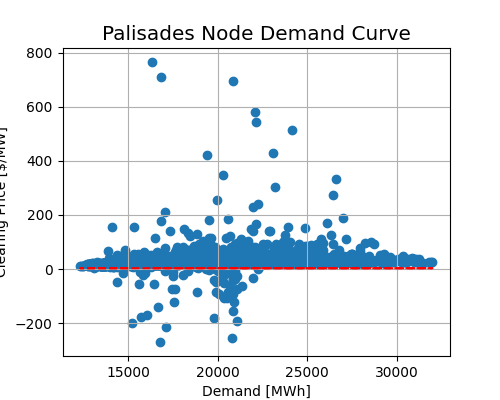
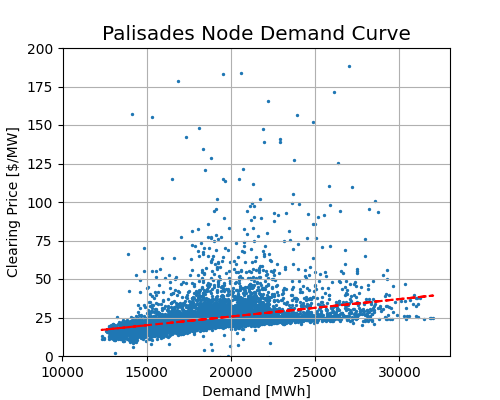
demand curves

diff --git a/analysis.py b/analysis.py
@@ -107,6 +107,7 @@ ax.set_ylim(0)
 plt.tight_layout()
 plt.savefig('node_clearing_duration_curve.png')
 '''
+'''
 lmp = np.genfromtxt('data/lmp/lmp.csv', delimiter=',')
 nodelmp = np.array([])
 for row in lmp[:-1]:
@@ -125,25 +126,47 @@ xs = demand[:,-1][mask]
 # calc the trendline
 z = np.polyfit(xs, no_outliers, 1)
 p = np.poly1d(z)
-plt.plot(xs,p(no_outliers),"r--")
+plt.plot(xs,p(xs),"r--")
 # the line equation:
+print('Mean:',mean)
+print('STD:',standard_deviation)
 print("y=%.6fx+(%.6f)"%(z[0],z[1]))
 print(nodelmp.shape)
-plt.scatter(demand[:,-1],nodelmp)
+plt.scatter(demand[:,-1],nodelmp,s=2)
+plt.ylim(0,200)
+#plt.hlines(mean,10000,33000,color='black')
+plt.xlim(10000,33000)
 plt.grid()
 plt.xlabel('Demand [MWh]')
 plt.ylabel('Clearing Price [$/MW]')
 plt.title('Palisades Node Demand Curve')
 plt.savefig('fitted-node-demand-curve.png')
-
 '''
-plt.scatter(demand[:,-1], timeseries)
+
+mean = np.mean(timeseries)
+standard_deviation = np.std(timeseries)
+distance_from_mean = abs(timeseries - mean)
+max_deviations = 2
+not_outlier = distance_from_mean < max_deviations * standard_deviation
+no_outliers = timeseries[not_outlier]
+mask = np.isin(timeseries, no_outliers)
+xs = demand[:,-1][mask]
+z = np.polyfit(xs, no_outliers, 1)
+plt.scatter(demand[:,-1], timeseries,s=2)
+p = np.poly1d(z)
+plt.plot(xs,p(xs),"r--")
+print('Mean:',mean)
+print('STD:',standard_deviation)
+print("y=%.6fx+(%.6f)"%(z[0],z[1]))
 plt.grid()
+plt.ylim(0,100)
+plt.hlines(mean,10000,35000,colors='black')
+plt.xlim(10000,35000)
 plt.xlabel('Demand [MWh]')
 plt.ylabel('Clearing Price [$/MW]')
 plt.title('Pseudo-Michigan Hub Demand Curve')
-plt.savefig('demand-curve.png')
-'''
+plt.savefig('mean-fitted-demand-curve.png')
+
 '''
 import matplotlib.dates as mdates
 import matplotlib.cbook as cbook
